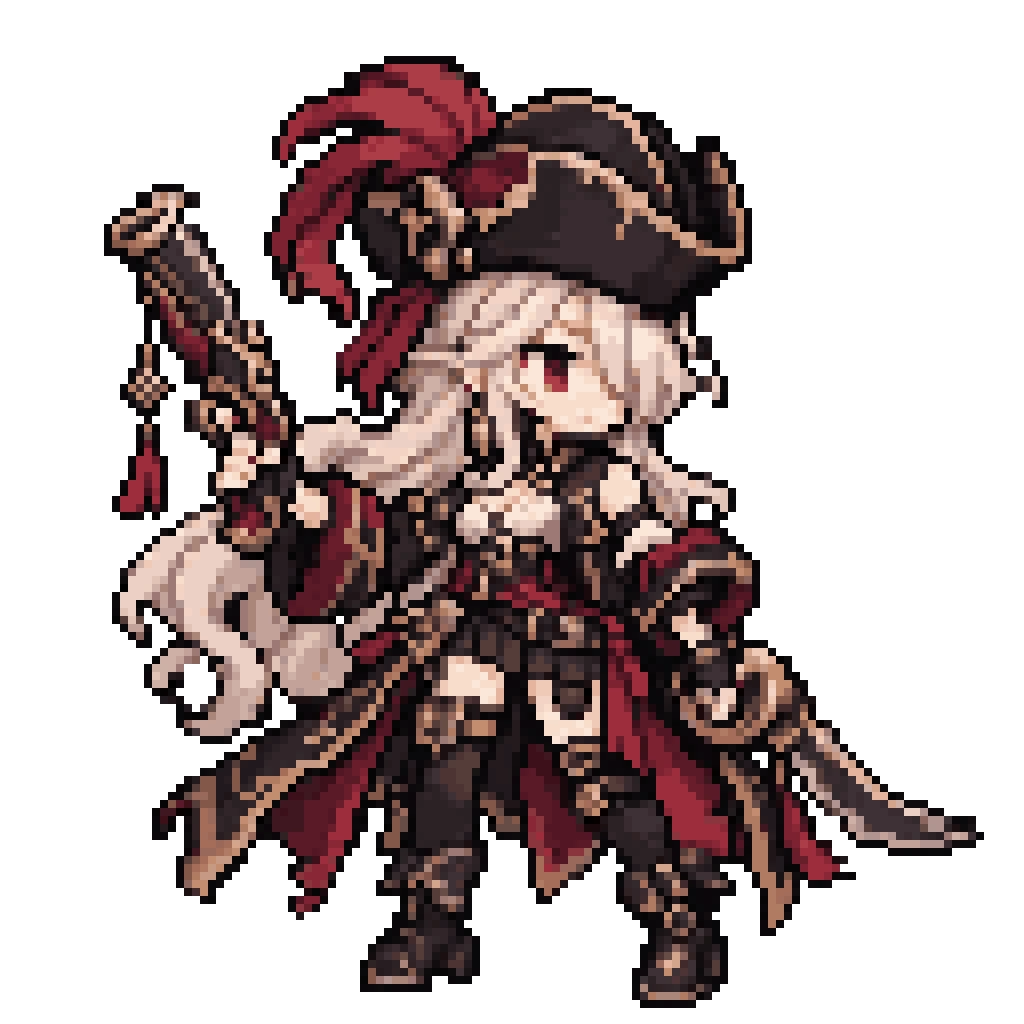
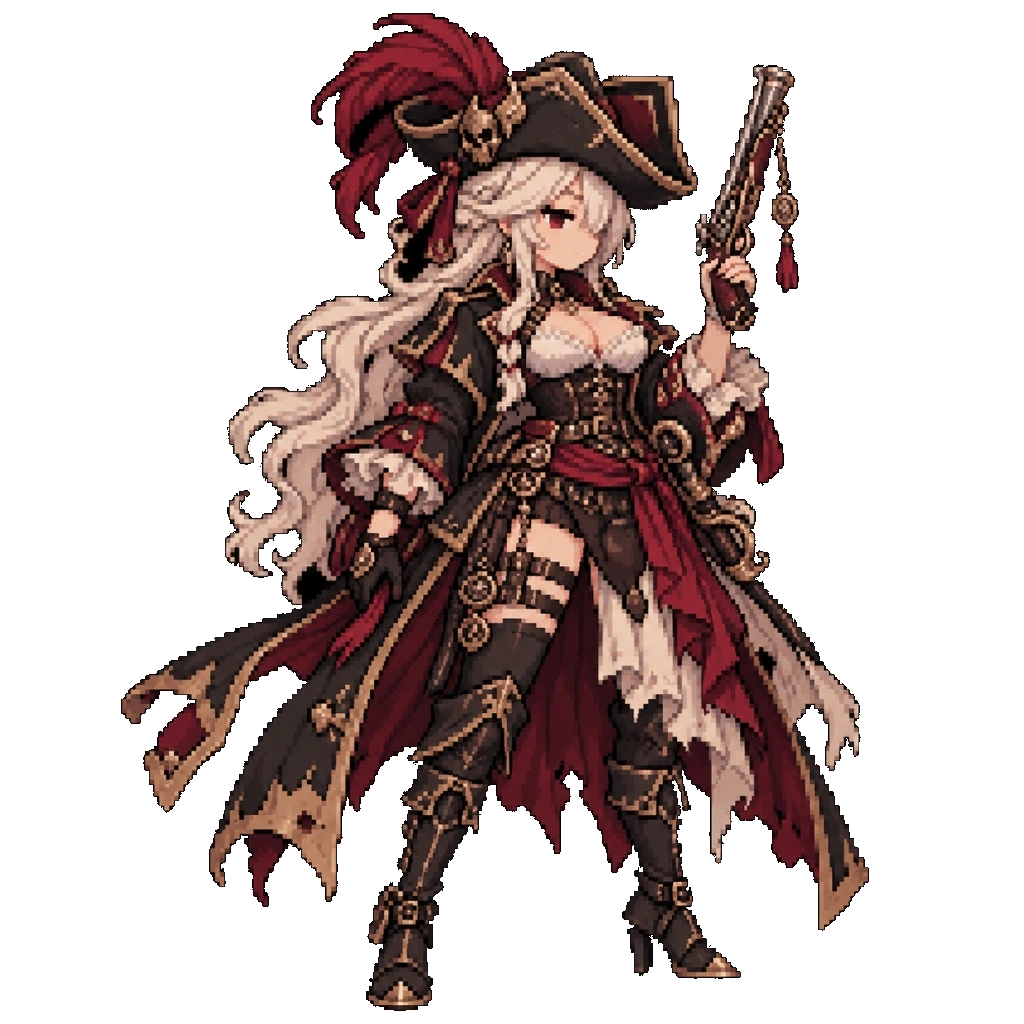
feat(cosmetics): update corsair appearance and job artwork

diff --git a/src/game/data/cosmetics.ts b/src/game/data/cosmetics.ts
@@ -62,7 +62,7 @@ export const APPEARANCES:AppearanceData[]=[
  starter,
  {
   id:'corsair',name:'코르세어',rarity:'B',
-  imagePath:"assets/characters/appearances/corsair-e727bb219050.webp",
+  imagePath:"assets/characters/appearances/corsair-3dd3b41300d0.webp",
   description:'황금 장식의 삼각모와 커틀라스, 화승총을 지닌 고딕 해적.',
   proposedBonus:{stat:'attack',percent:APPEARANCE_PROPOSED_PERCENT.B},
   sourceLabel:'외형 뽑기 · 준비중',tradeable:false,artStatus:'ready'
